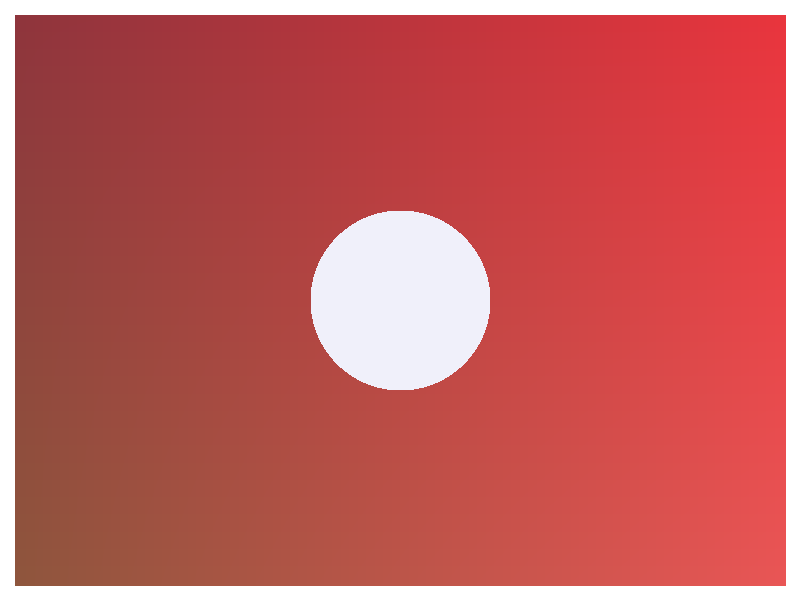
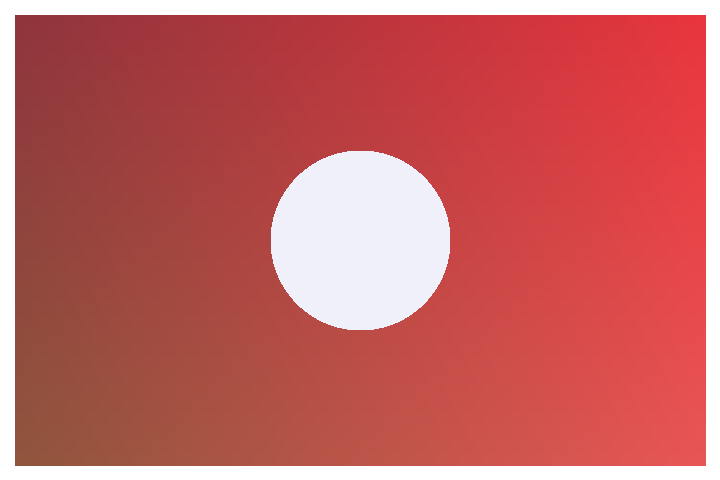
feat: cambiar proporción de video a 720x480 (3:2)

diff --git a/index.html b/index.html
@@ -3,7 +3,7 @@
 <head>
   <meta charset="UTF-8">
   <meta name="viewport" content="width=device-width, initial-scale=1.0">
-  <title>Generador de Mini Videos | Fotos a Video Carrusel 4:3 MP4</title>
+  <title>Generador de Mini Videos | Fotos a Video Carrusel 3:2 (720x480) MP4</title>
   <link rel="stylesheet" href="styles.css">
 </head>
 <body>
@@ -12,7 +12,7 @@
     <!-- Encabezado Principal -->
     <header class="app-header">
       <div class="badge-pill">
-        <span>🎬</span> Mini Video Maker 4:3
+        <span>🎬</span> Mini Video Maker 3:2 (720x480)
       </div>
       <h1 class="app-title">Generador de Mini Videos</h1>
       <p class="app-subtitle">
@@ -37,13 +37,13 @@
           </svg>
           <span>Fotos <strong>&le; 100 KB</strong></span>
         </div>
-        <div class="spec-chip" title="Proporción de pantalla 4:3">
+        <div class="spec-chip" title="Proporción de pantalla 3:2 (720x480)">
           <svg viewBox="0 0 24 24" fill="none" stroke="currentColor" stroke-width="2">
             <rect x="2" y="3" width="20" height="15" rx="2" ry="2"></rect>
             <line x1="8" y1="21" x2="16" y2="21"></line>
             <line x1="12" y1="18" x2="12" y2="21"></line>
           </svg>
-          <span>Proporción <strong>4:3</strong></span>
+          <span>Proporción <strong>3:2 (720x480)</strong></span>
         </div>
         <div class="spec-chip" title="El video final no superará los 1.000 KB">
           <svg viewBox="0 0 24 24" fill="none" stroke="currentColor" stroke-width="2">
@@ -116,7 +116,7 @@
             </select>
           </div>
           <div class="option-item">
-            <label for="fitModeSelect">🖼 Ajuste de imagen (4:3)</label>
+            <label for="fitModeSelect">🖼 Ajuste de imagen (3:2)</label>
             <select id="fitModeSelect" class="option-select">
               <option value="contain-blur" selected>Fondo desenfocado (Recomendado)</option>
               <option value="cover">Recortar para rellenar (Cover)</option>
@@ -148,12 +148,12 @@
             <svg width="20" height="20" viewBox="0 0 24 24" fill="none" stroke="currentColor" stroke-width="2">
               <polygon points="5 3 19 12 5 21 5 3"></polygon>
             </svg>
-            Vista Previa (Formato 4:3)
+            Vista Previa (Formato 3:2 - 720x480)
           </h2>
           <span style="font-size:0.75rem; color:#818cf8; font-weight:600;">Carrusel: Derecha ➜ Izquierda</span>
         </div>
 
-        <!-- Marco de Canvas 4:3 -->
+        <!-- Marco de Canvas 3:2 -->
         <div class="preview-wrapper">
           <canvas id="previewCanvas"></canvas>
           <div class="preview-overlay" id="previewOverlay">
@@ -194,10 +194,10 @@
             ¡Video generado y descargado!
           </div>
           <div class="success-info">
-            Tu video se descargó automáticamente como <strong>video.mp4</strong>.
+            Tu video se descargó automáticamente como <strong>video.mp4</strong> (720x480).
             <div id="resultFileSize" style="margin-top:4px;"></div>
           </div>
-          <video id="resultVideo" controls playsinline style="width:100%; aspect-ratio:4/3; border-radius:8px; background:#000; margin-top:8px;"></video>
+          <video id="resultVideo" controls playsinline style="width:100%; aspect-ratio:3/2; border-radius:8px; background:#000; margin-top:8px;"></video>
           <button type="button" class="btn-secondary" id="btnDownloadAgain" style="margin-top:4px; justify-content:center;">
             ⬇ Volver a descargar video.mp4
           </button>
@@ -214,7 +214,7 @@
       </div>
       <h3 class="modal-title">Generando tu video animado...</h3>
       <p style="font-size:0.85rem; color:#94a3b8; margin-top:-10px;">
-        Procesando carrusel con pasaje de derecha a izquierda en proporción 4:3
+        Procesando carrusel con pasaje de derecha a izquierda en proporción 3:2 (720x480)
       </p>
 
       <div class="progress-container">

diff --git a/generar_fotos_ejemplo.js b/generar_fotos_ejemplo.js
@@ -19,7 +19,7 @@ const colors = [
 
 colors.forEach((c, index) => {
   const svgContent = `
-<svg xmlns="http://www.w3.org/2000/svg" width="800" height="600" viewBox="0 0 800 600">
+<svg xmlns="http://www.w3.org/2000/svg" width="720" height="480" viewBox="0 0 720 480">
   <defs>
     <linearGradient id="grad${index}" x1="0%" y1="0%" x2="100%" y2="100%">
       <stop offset="0%" stop-color="${c.bg1}" />
@@ -29,14 +29,14 @@ colors.forEach((c, index) => {
       <feDropShadow dx="0" dy="8" stdDeviation="12" flood-color="#000" flood-opacity="0.3"/>
     </filter>
   </defs>
-  <rect width="800" height="600" fill="url(#grad${index})" />
-  <circle cx="400" cy="240" r="110" fill="#ffffff" opacity="0.18" />
-  <circle cx="400" cy="240" r="70" fill="#ffffff" opacity="0.25" />
-  <text x="400" y="260" font-family="system-ui, sans-serif" font-size="64" font-weight="bold" fill="#ffffff" text-anchor="middle" filter="url(#shadow)">${index + 1}</text>
-  <text x="400" y="420" font-family="system-ui, sans-serif" font-size="34" font-weight="bold" fill="#ffffff" text-anchor="middle" filter="url(#shadow)">${c.title}</text>
-  <text x="400" y="470" font-family="system-ui, sans-serif" font-size="18" fill="#f1f5f9" text-anchor="middle" opacity="0.9">Ejemplo de prueba &lt; 100 KB</text>
-  <rect x="250" y="510" width="300" height="34" rx="17" fill="rgba(0,0,0,0.25)" />
-  <text x="400" y="533" font-family="system-ui, sans-serif" font-size="14" fill="#ffffff" text-anchor="middle">Formato 4:3 | 800 x 600 px</text>
+  <rect width="720" height="480" fill="url(#grad${index})" />
+  <circle cx="360" cy="190" r="90" fill="#ffffff" opacity="0.18" />
+  <circle cx="360" cy="190" r="55" fill="#ffffff" opacity="0.25" />
+  <text x="360" y="210" font-family="system-ui, sans-serif" font-size="56" font-weight="bold" fill="#ffffff" text-anchor="middle" filter="url(#shadow)">${index + 1}</text>
+  <text x="360" y="330" font-family="system-ui, sans-serif" font-size="28" font-weight="bold" fill="#ffffff" text-anchor="middle" filter="url(#shadow)">${c.title}</text>
+  <text x="360" y="375" font-family="system-ui, sans-serif" font-size="16" fill="#f1f5f9" text-anchor="middle" opacity="0.9">Ejemplo de prueba &lt; 100 KB</text>
+  <rect x="220" y="410" width="280" height="30" rx="15" fill="rgba(0,0,0,0.25)" />
+  <text x="360" y="430" font-family="system-ui, sans-serif" font-size="13" fill="#ffffff" text-anchor="middle">Formato 3:2 | 720 x 480 px</text>
 </svg>
 `.trim();
 

diff --git a/app.js b/app.js
@@ -1,6 +1,6 @@
 /**
  * Generador de Mini Videos - Lógica de Aplicación
- * Convierte una galería de hasta 6 fotos (<100 KB c/u) en un video MP4 animado (<1.000 KB, 4:3).
+ * Convierte una galería de hasta 6 fotos (<100 KB c/u) en un video MP4 animado (<1.000 KB, 3:2 - 720x480).
  */
 
 (() => {
@@ -13,8 +13,8 @@
     MAX_IMAGES: 6,
     MAX_IMAGE_SIZE_BYTES: 100 * 1024,      // 100 KB (102,400 bytes)
     MAX_VIDEO_SIZE_BYTES: 1000 * 1024,     // 1.000 KB (1,024,000 bytes)
-    CANVAS_WIDTH: 800,                     // Relación 4:3 (800x600)
-    CANVAS_HEIGHT: 600,
+    CANVAS_WIDTH: 720,                     // Relación 3:2 (720x480)
+    CANVAS_HEIGHT: 480,
     FPS: 30,
     DEFAULT_STAY_DURATION: 2.2,            // Segundos fija cada imagen
     DEFAULT_SLIDE_DURATION: 0.8,           // Segundos de transición de derecha a izquierda
@@ -378,7 +378,7 @@
     ctx.clip();
 
     if (state.fitMode === 'cover') {
-      // Modo Cover: llena el marco 4:3 recortando proporcionalmente
+      // Modo Cover: llena el marco 3:2 recortando proporcionalmente
       const imgRatio = img.naturalWidth / img.naturalHeight;
       const canvasRatio = W / H;
       let drawW, drawH, drawX, drawY;

diff --git a/styles.css b/styles.css
@@ -306,7 +306,7 @@ body {
 
 .img-card-preview {
   width: 100%;
-  aspect-ratio: 4 / 3;
+  aspect-ratio: 3 / 2;
   object-fit: cover;
   background: #020617;
   display: block;
@@ -375,7 +375,7 @@ body {
 
 /* Add more button tile */
 .add-tile-btn {
-  aspect-ratio: 4 / 3;
+  aspect-ratio: 3 / 2;
   border: 2px dashed rgba(255, 255, 255, 0.15);
   border-radius: var(--radius-md);
   background: transparent;
@@ -399,7 +399,7 @@ body {
 .preview-wrapper {
   position: relative;
   width: 100%;
-  aspect-ratio: 4 / 3;
+  aspect-ratio: 3 / 2;
   border-radius: var(--radius-md);
   overflow: hidden;
   background: #020617;

diff --git a/generar_pngs.js b/generar_pngs.js
@@ -92,7 +92,7 @@ const samples = [
 ];
 
 samples.forEach((s, idx) => {
-  const buf = createPNG(800, 600, s.r, s.g, s.b, idx);
+  const buf = createPNG(720, 480, s.r, s.g, s.b, idx);
   const filePath = path.join(outDir, s.name);
   fs.writeFileSync(filePath, buf);
   const sizeKB = (buf.length / 1024).toFixed(1);

diff --git a/README.md b/README.md
@@ -1,6 +1,6 @@
 # Generador de Mini Videos 🎬
 
-Una aplicación web moderna, rápida y ligera para transformar una galería de fotos en un video animado tipo carrusel con efecto de transición de **derecha a izquierda**, proporción **4:3** y exportación automática en **MP4**.
+Una aplicación web moderna, rápida y ligera para transformar una galería de fotos en un video animado tipo carrusel con efecto de transición de **derecha a izquierda**, proporción **3:2 (720x480)** y exportación automática en **MP4**.
 
 ---
 
@@ -10,7 +10,7 @@ Una aplicación web moderna, rápida y ligera para transformar una galería de f
 2. **Límite de peso por imagen:** Las imágenes no pueden superar los **100 KB** (100k). El sistema valida cada archivo y rechaza automáticamente aquellos que excedan este límite con un mensaje explicativo.
 3. **Efecto de carrusel:** Las fotos pasan de **derecha a izquierda** con una transición fluida (curva de aceleración cúbica suave).
 4. **Límite de peso del video generado:** El video final está optimizado con control dinámico de tasa de bits para no superar nunca los **1.000 KB** (1 MB).
-5. **Proporción 4:3:** El lienzo y video generado tienen una proporción exacta de 4:3 (800 x 600 px), con fondo desenfocado inteligente (*blurred backdrop*) para que las fotos nunca se deformen.
+5. **Proporción 3:2 (720x480):** El lienzo y video generado tienen una proporción de 3:2 (resolución de 720 x 480 px), con fondo desenfocado inteligente (*blurred backdrop*) para que las fotos nunca se deformen.
 6. **Carga masiva:** El usuario puede seleccionar o arrastrar todas las fotos juntas de una sola vez.
 7. **Control y reordenamiento del orden:** Antes de generar el video, la app muestra una galería interactiva con el orden numérico (#1, #2, #3...). El usuario puede reordenar las imágenes mediante **arrastrar y soltar (Drag & Drop)** o con los botones **◀ / ▶**.
 8. **Edición flexible:** Es posible **eliminar** cualquier foto individualmente y **sumar nuevas fotos** en cualquier momento hasta completar el cupo de 6.
@@ -52,6 +52,6 @@ Dentro de la carpeta `fotos_ejemplo/` encontrarás 6 imágenes en formato PNG op
 ## 🛠 Tecnologías Utilizadas
 
 - **HTML5 & CSS3 Moderno:** Diseño responsivo con estética glassmorphism, modo oscuro y animaciones sutiles.
-- **Canvas API:** Renderizado de alta definición en relación 4:3 a 30 FPS con filtros de desenfoque e interpolación easing.
+- **Canvas API:** Renderizado de alta definición en relación 3:2 (720x480 px) a 30 FPS con filtros de desenfoque e interpolación easing.
 - **MediaRecorder API:** Codificación de video MP4 / AVC1 con asignación adaptativa de bitrate calculada en base a la duración para respetar el límite de 1.000 KB.
 - **Vanilla JavaScript:** 100% libre de dependencias pesadas, ejecutable directamente en el cliente.
